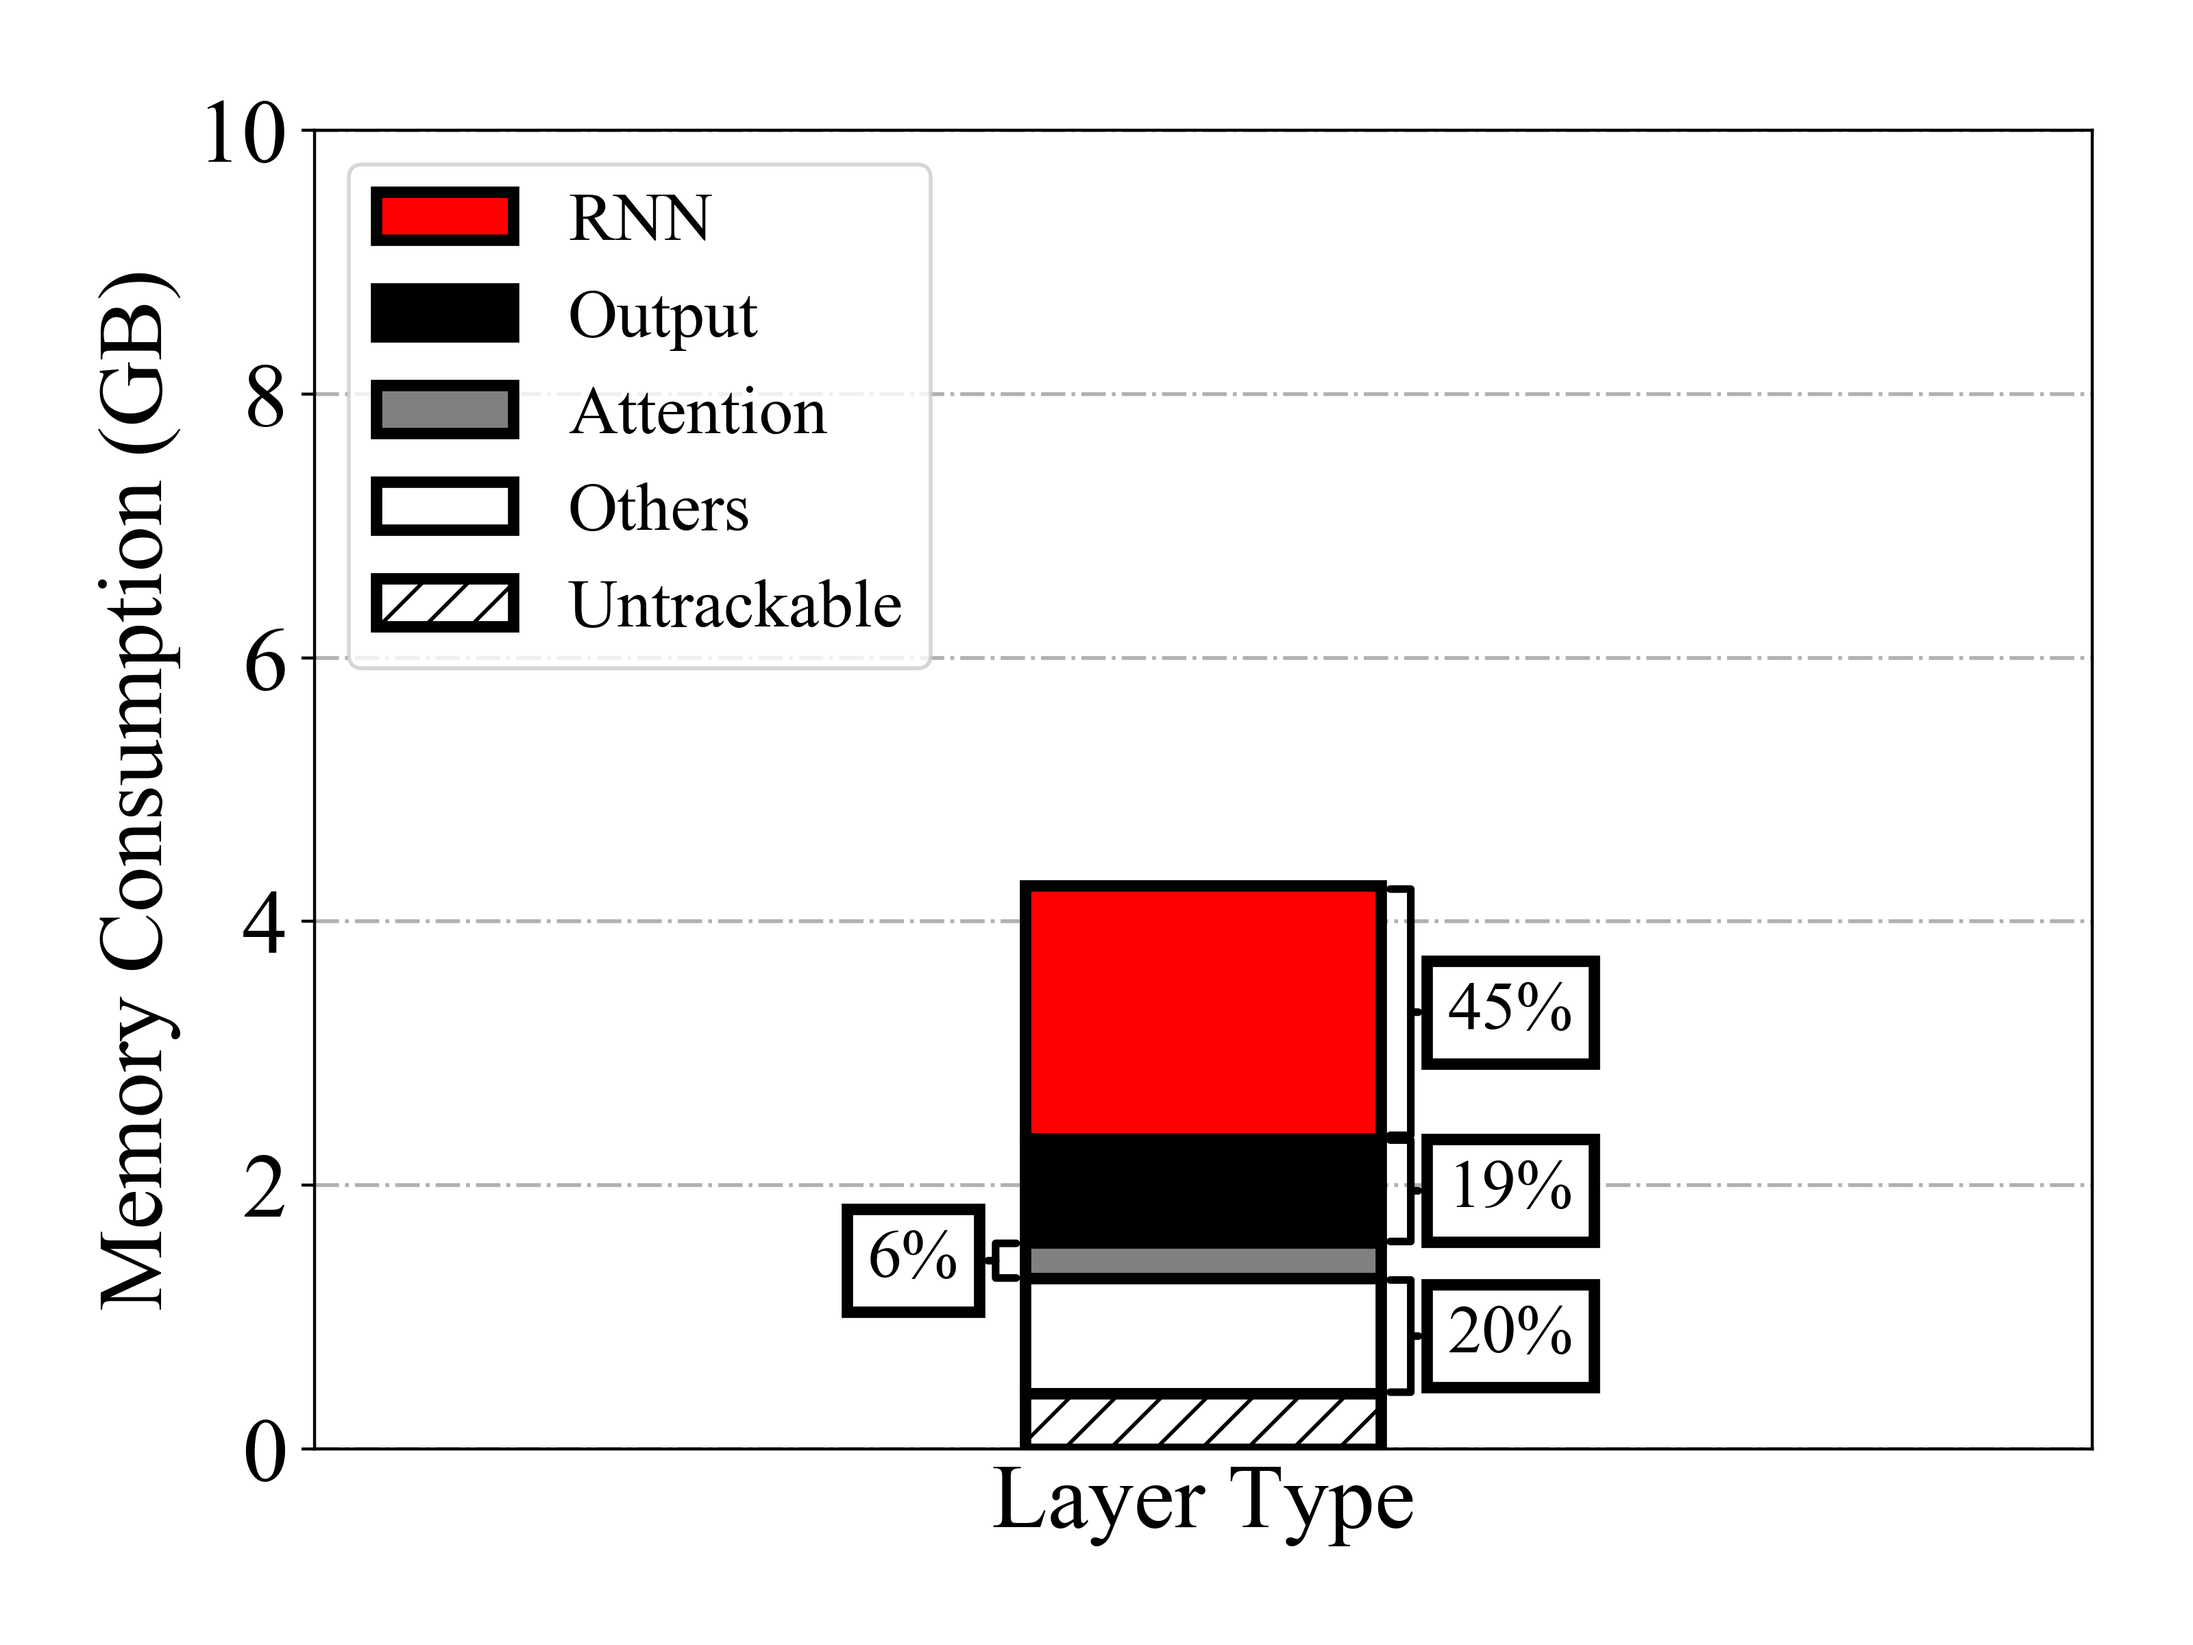
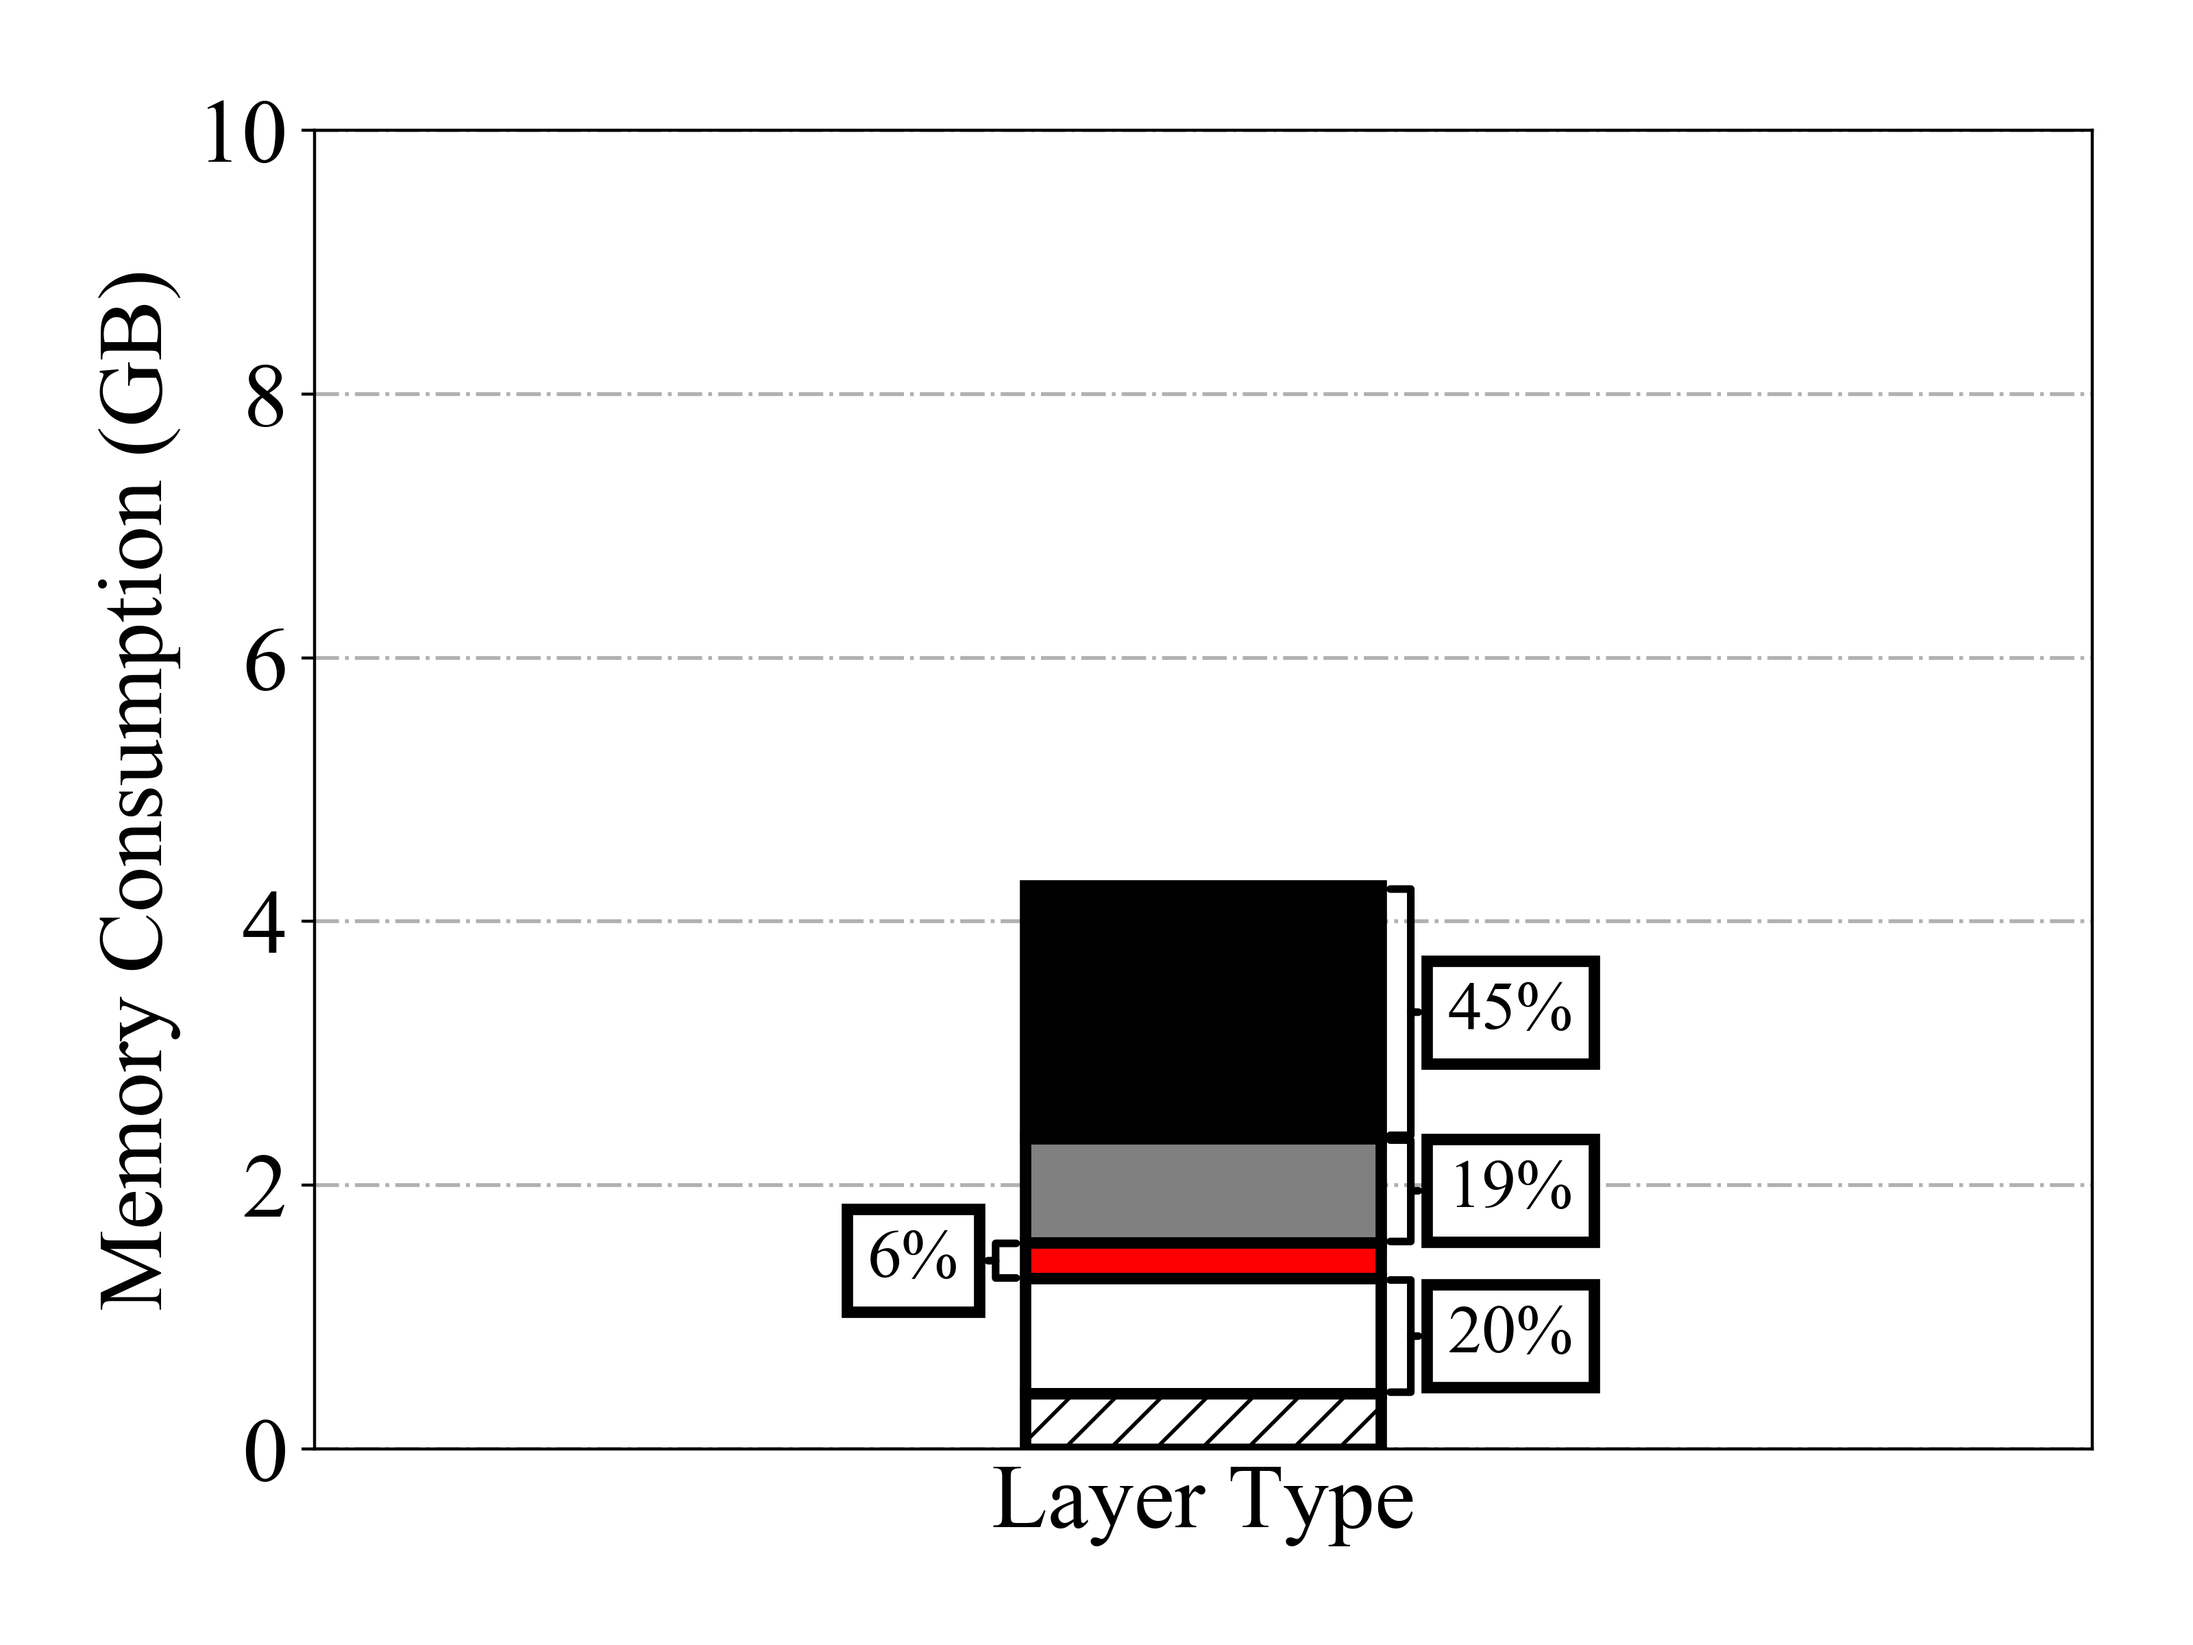
Updated the memory profiles.

Changed region(s): [[0.1562, 0.0938, 0.4375, 0.4062], [0.4688, 0.5312, 0.625, 0.7812]]

diff --git a/workspace/results/visualizer_helper.py b/workspace/results/visualizer_helper.py
@@ -39,6 +39,7 @@ def plt_breakdown(sorted_stats_list,
                   fig_name,
                   ymax=None,
                   yticks=None,
+                  colors=None,
                   extra_sum=0.0,
                   bar_width=0.3,
                   annotation_top_k=None,
@@ -67,7 +68,7 @@ def plt_breakdown(sorted_stats_list,
         plt.bar(x=0, height=sorted_stats_vlist[i], bottom=np.sum(sorted_stats_vlist[i+1:]),
                 width=0.8*bar_width, edgecolor='black', linewidth=3,
                 # color=np.array([1, i * 1.0 / 3, i * 1.0 / 3]) if i < 3 else 'white',
-                color=np.array([1, 0, 0]) if i == 0 else \
+                color=colors[i] if colors is not None else np.array([1, 0, 0]) if i == 0 else \
                       'white' if 'Other'       in sorted_stats_klist[i] or \
                                  'Untrackable' in sorted_stats_klist[i] else \
                       np.array([0, 0, 0]) if sorted_stats_list_len <= 3 else \
@@ -101,7 +102,8 @@ def plt_breakdown(sorted_stats_list,
 
     # Grid & Legend
     plt.grid(linestyle='-.', linewidth=1, axis='y')
-    plt.legend(loc=2, fontsize=18)
+    if colors is None:
+        plt.legend(loc=2, fontsize=18)
     # plt.legend(loc='center left', bbox_to_anchor=(1, 0.5), fontsize=annotation_fontsize)
     
     # Tighten Layout and Savefig

diff --git a/workspace/results/profile/memory/visualizer.py b/workspace/results/profile/memory/visualizer.py
@@ -20,7 +20,9 @@ def plt_memory_breakdown(memory_profile, expected_sum, yticks=None):
     plt_breakdown(sorted_stats_list=sorted_stats_list, 
                   expected_sum=expected_sum / 1e3, 
                   xlabel="Layer Type",
-                  ylabel="Memory Consumption (GB)", yticks=yticks,
+                  ylabel="Memory Consumption (GB)", yticks=yticks, 
+                  colors=[np.array([0, 0, 0]), np.array([0.5, 0.5, 0.5]), np.array([1, 0, 0]),
+                          np.array([1, 1, 1]), np.array([1, 1, 1])] if 'partial_fw_prop' in memory_profile else None,
                   fig_name=memory_profile.replace('.log', '-layer.png'),
                   annotation_top_k=4)
     sorted_stats_list = parse_memory_profile(memory_profile=memory_profile, 
@@ -28,7 +30,7 @@ def plt_memory_breakdown(memory_profile, expected_sum, yticks=None):
     plt_breakdown(sorted_stats_list=sorted_stats_list, 
                   expected_sum=expected_sum / 1e3, 
                   xlabel="Data Structure",
-                  ylabel="Memory Consumption (GB)", yticks=yticks,
+                  ylabel="Memory Consumption (GB)", yticks=yticks, 
                   fig_name=memory_profile.replace('.log', '-function.png'),
                   annotation_top_k=3)
 
